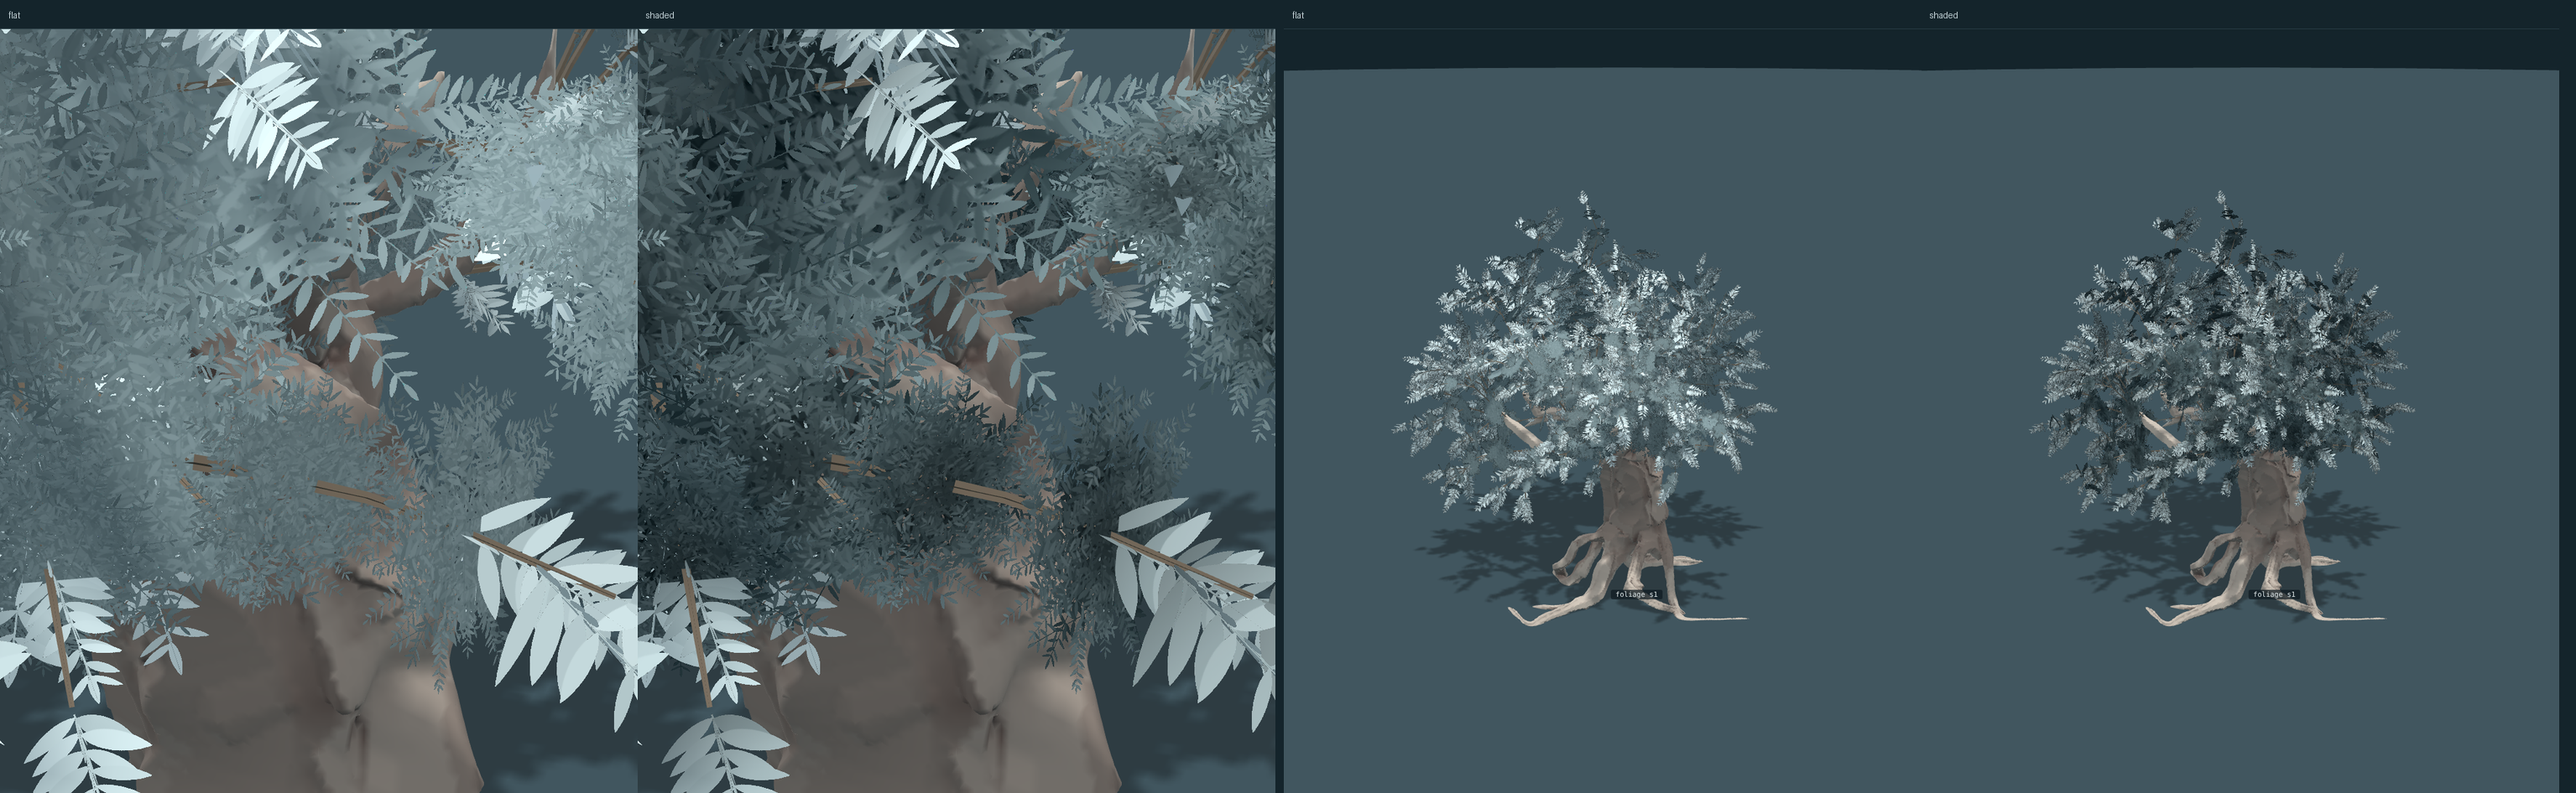
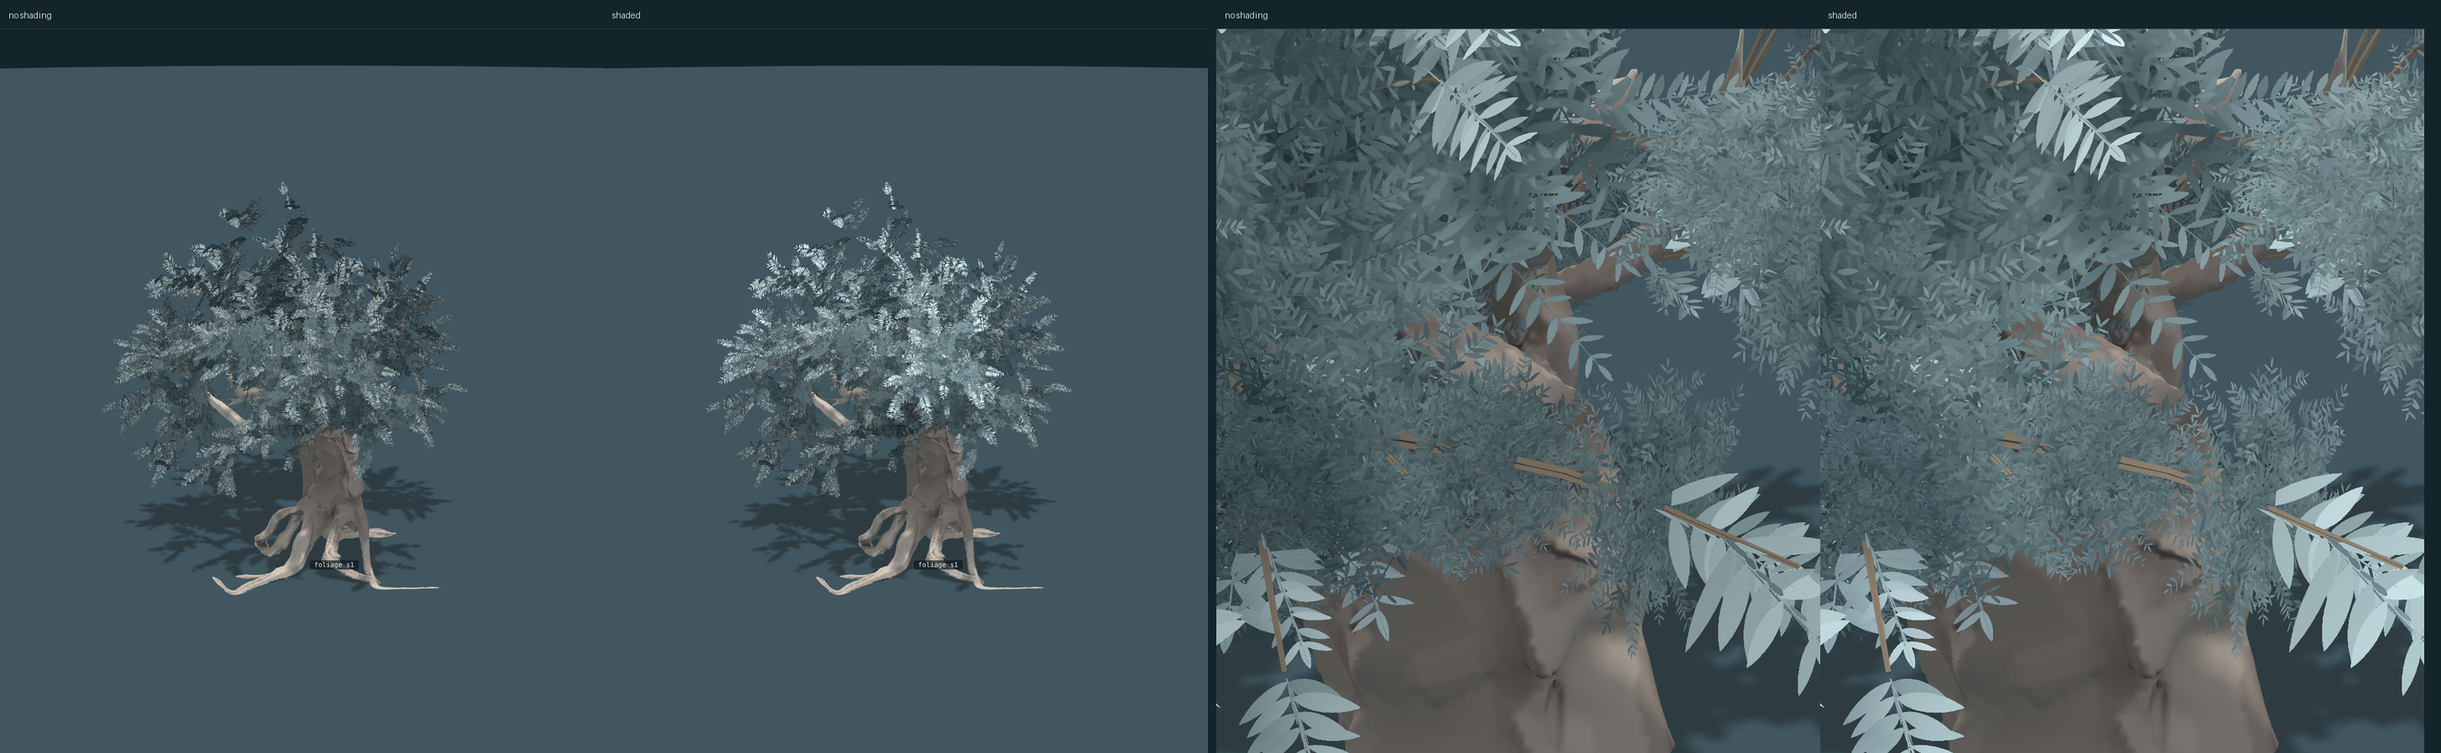
The shade belongs to the crown, not to the card
Every card carried the same ball of baked shading wherever it ended up,
so two side by side gave two dark middles with a LIGHT seam between
them -- and that seam is a crevice, the one place that should be
darkest. The baked cues are gentle now and the depth is carried by
three terms on the geometry: `shade` (how enclosed a piece is, from the
local crowding of the seats), `sky` (where it sits between the bottom
of the crown and the top -- no sun needed, down is down, and every
piece agrees which way it runs), and `tuck` (how far out along its
branchlet).

Four wrong versions on the way. Depth from the crown's middle does
nothing, because `rim` has already made the crown a shell and a
shell-depth term on a shell is flat. The tier split cannot carry it
either: at this density the blocker is mostly hidden behind the
garnish, and `deep` 40, 55, 70 and 85 all looked the same. Crowding at
a radius comparable to the crown is a slow ramp, not form; at a
clump's width it varies between neighbours, which is the scale a clump
is read at.

And the one that mattered: every term could only multiply DOWN. A term
that only darkens can only dim -- it takes the lit parts with it and
the spread NARROWS. Against no shading at all, every one-sided version
lowered both the mean AND the standard deviation. Centred on 1, with
`lift` dropping the leaf palette to leave headroom, contrast rises with
the dial instead of falling: sd 21.7 flat, 25.7, 27.1, 28.6 across the
[…]

diff --git a/runs/028-foliage/twigs.js b/runs/028-foliage/twigs.js
@@ -39,7 +39,7 @@
       orders: 3, kids: 3, shrink: 0.56, open: 1.5, distal: 2.2, sprout: 0.2, inner: 0.5,
       core: 0.5, cores: 2, bend: 0, ride: 0, long: 1, cant: 0.8, coreOn: 2, mid: null,
       sprigs: 2, size: 0.056, wide: 0.0055, seed: 23, R0: 0.2,
-      node: 1, turn: 0, pitch: 1.4, splay: 0.4, fall: 0.35, lie: 0, norm: 0.7, tuft: 2, light: 1, rim: 0.8, vary: 0.4, bunch: 0, wave: 0.72, tier: 0.14 }, opt);
+      node: 1, turn: 0, pitch: 1.4, splay: 0.4, fall: 0.35, lie: 0, norm: 0.7, tuft: 2, light: 1, rim: 0.8, vary: 0.12, bunch: 0, wave: 0.72, tier: 0.14, shade: 0.62, curve: 1.1, span: 0.8, tuck: 0.26, sky: 0.56, skew: 1.3 }, opt);
     const r = rng(o.seed * 374761393);
 
     // where a branchlet may sprout: along a core branch, once the wood is thin enough to carry one
@@ -88,6 +88,49 @@
       for (const st of seats) st.far = H(st.p[0] - F.foot[0], st.p[1] - F.foot[1], st.p[2] - F.foot[2]) / F.scale;
     }
 
+    // How ENCLOSED each seat is by the rest of the foliage. This is the coherent half of the shading, and the
+    // baked cells cannot supply it: every card carries the same ball of shade wherever it ends up, so two
+    // cards side by side give two dark middles with a LIGHT seam between them -- and that seam is a crevice,
+    // the one place that should be darkest. Shading that belongs to the card fights the volume.
+    //
+    // Depth from the crown's middle was tried first and does almost nothing, because `rim` has already culled
+    // the inner seats: the crown IS a shell, and a shell-depth term on a shell is flat. What reads as volume
+    // is local crowding -- a clump dark through its core and lighter at its edge, and darkest of all where two
+    // clumps meet, which is what makes them read as two clumps and not one wall.
+    if (seats.length > 2) {
+      const rad = Math.max(1e-4, o.len * o.span), inv = 1 / rad, grid = new Map();
+      const key = (p) => (Math.floor(p[0] * inv) * 73856093 ^ Math.floor(p[1] * inv) * 19349663 ^ Math.floor(p[2] * inv) * 83492791);
+      seats.forEach((st, i) => { const k = key(st.p); const g = grid.get(k); if (g) g.push(i); else grid.set(k, [i]); });
+      const dens = new Float64Array(seats.length);
+      for (let i = 0; i < seats.length; i++) {
+        const p = seats[i].p;
+        for (let ax = -1; ax <= 1; ax++) for (let ay = -1; ay <= 1; ay++) for (let az = -1; az <= 1; az++) {
+          const g = grid.get(key([p[0] + ax * rad, p[1] + ay * rad, p[2] + az * rad]));
+          if (!g) continue;
+          for (const j of g) {
+            if (j === i) continue;
+            const q = H(p[0] - seats[j].p[0], p[1] - seats[j].p[1], p[2] - seats[j].p[2]);
+            if (q < rad) { const w = 1 - q * inv; dens[i] += w * w; }
+          }
+        }
+      }
+      // Stretched between two quantiles, not divided by one. Divided by a high quantile the least crowded
+      // piece still comes out part-shaded, so the whole canopy darkens together and the spread stays narrow --
+      // which is a canopy that is dimmer, not one with form in it. Between the quartile and the ninetieth, the
+      // open quarter is fully lit and only the crowded end goes dark.
+      const sorted = Array.from(dens).sort((x, y) => x - y), at = (q) => sorted[Math.min(sorted.length - 1, Math.floor(sorted.length * q))];
+      const lo = at(0.25), hi = Math.max(lo + 1e-6, at(0.9));
+      for (let i = 0; i < seats.length; i++) seats[i].occ = Math.max(0, Math.min(1, (dens[i] - lo) / (hi - lo)));
+    }
+
+    // And the cue a canopy cannot do without, which needs no sun to know: down is down. The underside of a
+    // crown is dark and its top is lit, and every piece in the tree agrees about which way that runs -- which
+    // is what makes the whole mass read as one solid rather than as a swarm of separately shaded cards.
+    let cy0 = Infinity, cy1 = -Infinity;
+    for (const st of seats) { cy0 = Math.min(cy0, st.p[1]); cy1 = Math.max(cy1, st.p[1]); }
+    const span2 = Math.max(1e-6, cy1 - cy0);
+    const sky = (y) => 1 + o.sky * (Math.pow(Math.max(0, Math.min(1, (y - cy0) / span2)), o.skew) - 0.5);
+
     // Where the light is. Nothing above asks how deep in the crown a seat sits -- only how thick its wood is and
     // how near the end of its branch -- so wood thin enough at the bottom of the tree is furred like wood at the
     // top, and a tree carries foliage down to its root plate where it would long since have shed it.
@@ -112,7 +155,7 @@
 
     // grow one branchlet: a drooping path that forks. returns a list of segments as {a,b,t0,t1,wa,wb}
     const paths = [];
-    const grow = (p0, d0, L, depth, t0, far) => {
+    const grow = (p0, d0, L, depth, t0, far, occ) => {
       let p = p0.slice(), d = d0.slice();
       const n = o.seg, pts = [p.slice()];
       for (let i = 1; i <= n; i++) {
@@ -123,7 +166,7 @@
         p = [p[0] + d[0] * L / n, p[1] + d[1] * L / n, p[2] + d[2] * L / n];
         pts.push(p.slice());
       }
-      paths.push({ pts, t0, t1: t0 + 1, depth, L, far });
+      paths.push({ pts, t0, t1: t0 + 1, depth, L, far, occ });
       // The hierarchy. Each order is shorter than its parent and there are more of them, and they leave at a wider
       // angle, so the thing opens out toward its end instead of running on as one wire. That is the burst: little
       // at the base of a branchlet and a spray at the end of it.
@@ -139,7 +182,7 @@
           const ph = (c / kids) * Math.PI * 2 + r() * 1.1;
           const wide = o.out * o.open * (0.7 + 0.6 * r());
           const away = unit([0, 1, 2].map((i) => dd[i] * 1.0 + (side[i] * Math.cos(ph) + cross3(dd, side)[i] * Math.sin(ph)) * wide));
-          grow(pts[at], away, L * o.shrink * (0.85 + 0.3 * r()), depth + 1, t0 + at / n, far);
+          grow(pts[at], away, L * o.shrink * (0.85 + 0.3 * r()), depth + 1, t0 + at / n, far, occ);
         }
       }
     };
@@ -150,7 +193,7 @@
       // along the branch first, out from it second: the trajectory of the core branch is what a branchlet obeys
       const out = unit([0, 1, 2].map((i) => s.d[i] * o.lean * (0.8 + 0.5 * r())
         + (s.o[i] * Math.cos(ph) + side[i] * Math.sin(ph)) * o.out * (0.6 + 0.8 * r())));
-      grow(s.p, out, o.len * (0.7 + 0.6 * r()), 0, 0, s.far || 0);
+      grow(s.p, out, o.len * (0.7 + 0.6 * r()), 0, 0, s.far || 0, s.occ || 0);
     }
     if (!paths.length) return { stem: null, leaf: null, twigs: 0, sprigs: 0 };
 
@@ -168,6 +211,18 @@
     // `tier` holds the two sheets back behind the wood that carries them, so a branchlet draws itself first and
     // clothes itself after, rather than everything arriving at once in the same place.
     const due = (far, local, off) => far * o.wave + Math.min(1, local) * (1 - o.wave) + (off || 0) * o.tier;
+    // `tuck`: how much darker a piece is for sitting INBOARD on its branchlet. This is the cue that was
+    // missing. The tier split cannot carry the depth, because at this density the blocker is mostly hidden
+    // behind the garnish and darkening it moves few pixels; what the eye sees is fronds, and they were all one
+    // value. Every branchlet now runs dark at its inside to lit at its tips, and since every branchlet obeys
+    // the same rule the clumps read as clumps -- a lit rim over a dark core, all of them turned the same way
+    // out of the mass, which is what makes the combination read as volume rather than as scatter.
+    // CENTRED on 1, not falling from it. A term that can only multiply down can only dim: it takes the lit
+    // parts with it and the spread NARROWS, which is the opposite of shading. Measured on the renders, every
+    // one-sided version lowered both the mean and the standard deviation against no shading at all. Centred,
+    // the exposed pieces lift above 1 and the enclosed ones sink below, and the contrast is built rather than
+    // spent. `lift` in the atlas drops the whole leaf palette to leave headroom for the lifting.
+    const tuck = (local) => 1 + o.tuck * (Math.min(1, local) - 0.5);
     let a = 0, b = 0;
     const leafAt = [];
     for (const pa of paths) {
@@ -178,7 +233,10 @@
       const piv = pa.pts[0]; let ax0 = null;
       // centred, not one-sided: a tone drawn from [1 - vary, 1] only ever darkens, so the crown goes dimmer
       // rather than patchier, and a measure of its spread comes back saying the values narrowed.
-      pa.tone = 1 + o.vary * (r() - 0.5);
+      // the crown's own shade, times the branchlet's own tone. Every piece in a crowded part of the crown is
+      // dark and every piece standing clear of its neighbours is lit, whatever its texture says, so the cards
+      // reinforce one another into a mass instead of each reading as its own little ball.
+      pa.tone = (1 + o.vary * (r() - 0.5)) * (1 + o.shade * (0.5 - Math.pow(pa.occ || 0, o.curve)));
       const away = unit([pa.pts[0][0] - mid[0], pa.pts[0][1] - mid[1] + 0.05, pa.pts[0][2] - mid[2]]);
       for (let i = 0; i < N; i++) {
         const u = i / (N - 1);
@@ -196,7 +254,7 @@
             sn[a * 3] = nm[0]; sn[a * 3 + 1] = nm[1]; sn[a * 3 + 2] = nm[2];
             su[a * 2] = e; su[a * 2 + 1] = u;
             sc[a * 3] = pa.t0 * 0.3 + u * 0.7; sc[a * 3 + 1] = flut; sc[a * 3 + 2] = phase;
-            st[a * 3] = st[a * 3 + 1] = st[a * 3 + 2] = pa.tone;
+            st[a * 3] = st[a * 3 + 1] = st[a * 3 + 2] = pa.tone * tuck((pa.t0 + u) / 2.2) * sky(pa.pts[i][1]);
             // a stem's own vertices are due in order along it, so it draws itself outward from its base rather
             // than appearing whole
             sb[a] = due(pa.far || 0, (pa.t0 + u) / 2.2);
@@ -273,7 +331,7 @@
             cp[k * 3 + i] = C.p[i] + across[i] * sz * 0.62 * fx + upc[i] * sz * 0.62 * o.long * sy + out[i] * (sz * 0.1 + outAmt);
             cn[k * 3 + i] = unit([0, 1, 2].map((j) => out[j] + across[j] * fx * o.bend * 0.8))[i];
             cc[k * 3 + i] = i === 0 ? C.u : i === 1 ? flut : phase;
-            ct[k * 3 + i] = C.tone === undefined ? 1 : C.tone;
+            ct[k * 3 + i] = (C.tone === undefined ? 1 : C.tone) * tuck((C.t0 + C.u) / 2.2) * sky(C.p[1]);
             cvp[k * 3 + i] = C.p[i]; cax[k * 3 + i] = across[i];
           }
           cuv[k * 2] = (fx + 1) / (COLS === 2 ? 2 : 2); cuv[k * 2 + 1] = ry;
@@ -328,7 +386,7 @@
             lp[k * 3 + i] = L.p[i] + alongA[i] * sz * 1.7 * sy + wide[i] * sz * 0.85 * sx;
             ln[k * 3 + i] = unit([0, 1, 2].map((j) => nrm[j] + (L.away[j] - nrm[j]) * o.norm))[i];
             lc[k * 3 + i] = i === 0 ? L.u : i === 1 ? L.flut : L.phase;
-            lt[k * 3 + i] = L.tone === undefined ? 1 : L.tone;
+            lt[k * 3 + i] = (L.tone === undefined ? 1 : L.tone) * tuck((L.t0 + L.u) / 2.2) * sky(L.p[1]);
             lvp[k * 3 + i] = L.p[i]; lax[k * 3 + i] = wide[i];
           }
           lu[k * 2] = cu + (((w === 0 || w === 3) !== mir) ? 0 : 0.5); lu[k * 2 + 1] = cv + (sy ? 0.5 : 0);

diff --git a/runs/028-foliage/atlas.js b/runs/028-foliage/atlas.js
@@ -25,8 +25,11 @@
   // `heart`, `under`, `root` and `wash` are the shading BAKED into the cells. A card is flat, so the only
   // depth it can have is painted on it: without these a plume is one value from its heart to its rim and reads
   // as a cut-out of foliage rather than a handful of it.
-  const TEX = { blunt: 0.6, lift: 0, range: 1, green: 0, rake: 1.0, deep: 95, grain: 1.6,
-    heart: 46, under: 26, root: 34, wash: 0.5, stalk: 0.45 };
+  // All of these are much gentler than they were. The depth is the crown's job now (`shade` in twigs.js, which
+  // darkens by how deep in the crown a piece sits); the cell's own shading is only the leaf-scale part of it,
+  // and when it tried to carry the whole thing it both fought the volume and crushed the darks.
+  const TEX = { blunt: 0.6, lift: 36, range: 1, green: 0, rake: 1.0, deep: 62, grain: 1.6,
+    heart: 10, under: 12, root: 26, wash: 0.14, stalk: 0.45 };
   const DEF = Object.assign({}, TEX);
 
   function drawLeaf(x, ll, lw) {

diff --git a/LOG.md b/LOG.md
@@ -5558,3 +5558,72 @@ painted into the texture, so a plume's heart is dark whichever way the
 light comes from. That is the cheap answer and it is the right one for
 a card; the honest one is a translucency or occlusion term, and it is
 still open.
+
+## The shade was not coherent, and why
+
+The baked version of the round before gave every card the same ball of
+shading wherever it ended up. Two cards side by side then give two dark
+middles with a LIGHT seam between them -- and that seam is a crevice,
+the one place that should be darkest. Shading that belongs to the card
+fights the volume. Shading has to belong to the crown.
+
+The baked cues are all much gentler now; the depth is carried by three
+terms on the geometry, as a vertex tint.
+
+      shade   how enclosed a piece is by the rest of the foliage, from
+              the local crowding of the seats
+      sky     where it sits between the bottom of the crown and the top.
+              No sun needed to know this one: down is down, and every
+              piece in the tree agrees which way it runs, which is what
+              makes the mass read as one solid rather than a swarm of
+              separately shaded cards
+      tuck    how far out along its branchlet it sits
+
+### Four wrong versions, and what each taught
+
+**Depth from the crown's middle** does almost nothing, because `rim`
+has already culled the inner seats: the crown IS a shell, and a
+shell-depth term on a shell is flat.
+
+**The tier split cannot carry it either.** At this density the blocker
+is mostly hidden behind the garnish, so darkening it moves few pixels.
+`deep` 40, 55, 70, 85 all looked the same. What the eye sees is fronds.
+
+**Crowding at the wrong scale.** A radius of `len` x 2.2 is comparable
+to the crown itself, so the density field is nearly constant and the
+quantile stretch turns a slow ramp into the full range: one side of the
+tree darker, which is not form. At `len` x 0.8 it varies between
+neighbouring clumps, which is the scale a clump is read at.
+
+**And the one that mattered: every term could only multiply DOWN.** A
+term that only darkens can only dim -- it takes the lit parts with it
+and the spread NARROWS. Measured against no shading at all, every
+one-sided version lowered both the mean and the standard deviation:
+
+      none              whole sd 21.7    close sd 26.5
+      one-sided, 0.5    whole sd 25.1    close sd 29.0   <- darker AND flatter
+
+Centred on 1, so the exposed pieces lift above it and the enclosed sink
+below, with `lift` dropping the whole leaf palette to leave headroom:
+
+      none              whole sd 21.7    close sd 26.5
+      centred, gentle   whole sd 25.7    close sd 29.8
+      centred, set      whole sd 27.1    close sd 30.8
+      centred, strong   whole sd 28.6    close sd 31.8
+
+Now the contrast is built rather than spent, and it rises with the
+dial. This is the same mistake `vary` made two rounds ago -- drawn from
+[1-v, 1] it dimmed the crown instead of mottling it -- and I did not
+carry the lesson across when I wrote these.
+
+It also answers "less darker darks" for free: the darks need not go as
+low once the lights come up.
+
+### A measure that earned its keep
+
+A histogram of the tint attribute, built straight off the generator
+with no render. It showed in one line what four renders had not: the
+whole range living between 0.6 and 1.0, with the RANDOM per-branchlet
+term occupying as much of it as the two terms that describe form.
+Shading that varies as much at random as it does with the form reads as
+noise. `vary` went from 0.4 to 0.12.
